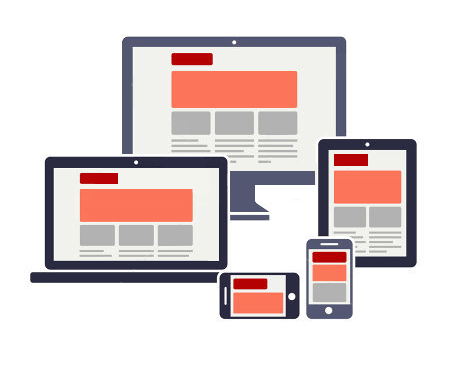
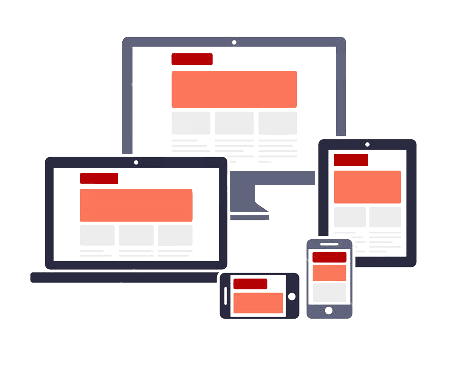
add parkin layout

diff --git a/src/main/resources/src/css/style.min.css b/src/main/resources/src/css/style.min.css
@@ -1,1 +1,1 @@
-@charset "UTF-8";@import url(https://fonts.googleapis.com/css?family=Poppins:100,100italic,200,200italic,300,300italic,regular,500,500italic,600,600italic,&display=swap);*{padding:0;margin:0;border:0}body{-webkit-box-sizing:border-box;box-sizing:border-box}html{height:100%}*,:after,:before{-webkit-box-sizing:border-box;box-sizing:border-box}:active,:focus{outline:0}a:active,a:focus{outline:0}aside,footer,header,nav{display:block}body,html{height:100%;width:100%;font-size:100%;line-height:1;font-size:14px;-ms-text-size-adjust:100%;-moz-text-size-adjust:100%;-webkit-text-size-adjust:100%}button,input,textarea{font-family:inherit}input::-ms-clear{display:none}button{cursor:pointer}button::-moz-focus-inner{padding:0;border:0}a,a:visited{text-decoration:none}a:hover{text-decoration:none}ul li{list-style:none}img{vertical-align:top}h1,h2,h3,h4,h5,h6{font-size:inherit;font-weight:inherit}._nav{margin-top:20px;display:-webkit-box;display:-ms-flexbox;display:flex;-webkit-box-align:center;-ms-flex-align:center;align-items:center;-webkit-box-pack:justify;-ms-flex-pack:justify;justify-content:space-between;position:relative}._nav__logo a>img{max-width:250px}._nav__link-menu{display:-webkit-box;display:-ms-flexbox;display:flex;-webkit-box-align:center;-ms-flex-align:center;align-items:center}._nav__link-menu>li:not(:first-child){margin-left:35px}._nav__link-item{color:#000;font-size:20px;display:-webkit-box;display:-ms-flexbox;display:flex;-webkit-box-align:center;-ms-flex-align:center;align-items:center;position:relative;-webkit-transition:all .7s;-o-transition:all .7s;transition:all .7s}._nav__link-item::after{-webkit-transition:all .2s;-o-transition:all .2s;transition:all .2s;content:"";display:inline;position:absolute;left:0;bottom:-10px;width:0%;height:3px;background-color:orange}._nav__link-item:hover{-webkit-transition:all .7s;-o-transition:all .7s;transition:all .7s;text-shadow:2px 1px 4px orange;-webkit-transform:scale(1.1);-ms-transform:scale(1.1);transform:scale(1.1);color:orange}._nav__link-item:hover::before{-webkit-transition:all 1.2s;-o-transition:all 1.2s;transition:all 1.2s;-webkit-transform:rotate(360deg);-ms-transform:rotate(360deg);transform:rotate(360deg)}._nav__link-item:hover::after{width:100%;opacity:.5}._nav__link-item.icon-setting{margin-right:15px}._nav__link-item.icon-setting::before{font-size:24px;color:#f39c7a;position:absolute;left:105%}.main__container{position:relative;padding-bottom:15px}.main__section{display:-webkit-box;display:-ms-flexbox;display:flex;-ms-flex-pack:distribute;justify-content:space-around;-webkit-box-align:center;-ms-flex-align:center;align-items:center}.main__text{font-size:18px;line-height:30px;margin:20px 10px 20px 15px;max-width:500px}.main__text p{text-indent:25px}.main__title{font-size:28px;font-weight:700}.main__photo{display:-webkit-box;display:-ms-flexbox;display:flex}.main__photo-box{min-width:250px;min-height:350px;border-radius:20px;overflow:hidden}.main__photo-screen{width:100%;height:100%}.social__item-link{font-size:24px;display:-webkit-box;display:-ms-flexbox;display:flex;-webkit-box-align:center;-ms-flex-align:center;align-items:center}.social__item-link>span::before{font-size:32px;margin-right:20px}.social__item-link>a::before{display:inline-block;-webkit-transition:-webkit-transform .3s;transition:-webkit-transform .3s;-o-transition:transform .3s;transition:transform .3s;transition:transform .3s,-webkit-transform .3s;font-size:32px;margin-right:20px}.social__item-link>a{color:#000;-webkit-transition:all .3s;-o-transition:all .3s;transition:all .3s;margin:10px 0}.social__item-link>a:hover{color:orange;-webkit-transform:scale(1.05);-ms-transform:scale(1.05);transform:scale(1.05)}.social__item-link>a:hover::before{-webkit-transform:rotate(40deg) scale(1.02);-ms-transform:rotate(40deg) scale(1.02);transform:rotate(40deg) scale(1.02)}.education__container{display:-webkit-box;display:-ms-flexbox;display:flex;-webkit-box-orient:vertical;-webkit-box-direction:normal;-ms-flex-direction:column;flex-direction:column;-webkit-box-align:center;-ms-flex-align:center;align-items:center;-webkit-box-pack:center;-ms-flex-pack:center;justify-content:center;padding-bottom:15px;position:relative}.education__info p{font-size:18px;line-height:25px}.education__info p:not(:last-child){margin-bottom:10px}.education__info p::before{content:"";display:inline-block;width:10px;height:10px;background-color:orange;border-radius:50%;margin-right:10px}.skill__container{position:relative;padding-bottom:15px}.skill__info{display:-webkit-box;display:-ms-flexbox;display:flex;-ms-flex-pack:distribute;justify-content:space-around;-webkit-box-align:center;-ms-flex-align:center;align-items:center}.info__item{min-width:300px}.info__item h2{font-size:20px;font-weight:700;margin:10px 0}.info__item p{font-size:18px;text-indent:25px;line-height:25px}.info__item p::before{content:"";display:inline-block;width:7px;height:7px;background-color:orange;margin-right:5px;border-radius:50%}.project__dashboard{display:-webkit-box;display:-ms-flexbox;display:flex;-ms-flex-wrap:wrap;flex-wrap:wrap;-webkit-box-align:center;-ms-flex-align:center;align-items:center;-webkit-box-pack:center;-ms-flex-pack:center;justify-content:center;padding-bottom:50px}.dashboard__card{-webkit-box-flex:0;-ms-flex:0 0 auto;flex:0 0 auto;min-width:300px;margin-bottom:20px;position:relative;-webkit-transition:.3s;-o-transition:.3s;transition:.3s}.dashboard__card a{color:#000}.dashboard__card:hover{-webkit-transform:scale(1.05);-ms-transform:scale(1.05);transform:scale(1.05)}.dashboard__card-small{width:100px;height:100px;background-size:contain;border-radius:50%;-webkit-box-shadow:-1px -1px 3px;box-shadow:-1px -1px 3px}.dashboard__card-body{position:absolute;left:50px;top:50px;padding:15px 20px;background-color:#fff;-webkit-box-shadow:1px 1px 5px;box-shadow:1px 1px 5px;border-radius:5px}.footer{position:relative}.footer__container{display:-webkit-box;display:-ms-flexbox;display:flex;-webkit-box-pack:center;-ms-flex-pack:center;justify-content:center;-webkit-box-orient:vertical;-webkit-box-direction:normal;-ms-flex-direction:column;flex-direction:column;-webkit-box-align:center;-ms-flex-align:center;align-items:center;padding:25px 0}.footer__link{padding:15px;position:relative}.footer__link>a:not(:last-child){margin-right:30px}.footer__item{font-size:30px;font-weight:100;color:#262a2e}.footer__item:hover::before{display:inline-block;color:#000;-webkit-transition:all .3s;-o-transition:all .3s;transition:all .3s;-webkit-transform:rotate(20deg) scale(1.1);-ms-transform:rotate(20deg) scale(1.1);transform:rotate(20deg) scale(1.1)}.footer__copyright{opacity:.5}.main__container{display:-webkit-box;display:-ms-flexbox;display:flex;-webkit-box-pack:center;-ms-flex-pack:center;justify-content:center;-ms-flex-wrap:wrap;flex-wrap:wrap}.layout__card{-webkit-box-flex:1;-ms-flex:1 1 33.33%;flex:1 1 33.33%;min-height:100px;display:-webkit-box;display:-ms-flexbox;display:flex;-webkit-box-orient:horizontal;-webkit-box-direction:normal;-ms-flex-direction:row;flex-direction:row;-webkit-box-pack:center;-ms-flex-pack:center;justify-content:center;max-width:200px;width:200px;margin-right:25px}.layout__box{-webkit-box-flex:1;-ms-flex:1 1 100%;flex:1 1 100%;display:-webkit-box;display:-ms-flexbox;display:flex;-webkit-box-orient:vertical;-webkit-box-direction:normal;-ms-flex-direction:column;flex-direction:column;-webkit-box-pack:center;-ms-flex-pack:center;justify-content:center;padding:15px}.layout__box-screen{min-width:200px;min-height:100px;border-radius:5px;overflow:hidden}.layout__box-title{margin-top:25px}.layout__box-subtitle{margin-top:25px;-webkit-box-flex:1;-ms-flex:1 1 auto;flex:1 1 auto}.layout__box-button{display:-webkit-box;display:-ms-flexbox;display:flex;-webkit-box-pack:justify;-ms-flex-pack:justify;justify-content:space-between}.layout__box-button a{color:#000;margin-top:15px;border:1px solid #000;padding:10px 20px;border-radius:10px;-webkit-transition:all .3s;-o-transition:all .3s;transition:all .3s}.layout__box-button a:hover{background-color:orange;border:1px solid #fff;color:#fff}html{overflow:hidden auto}body{font-family:Poppins,sans-serif;font-size:14px;color:#000;position:relative;height:100%;-webkit-box-orient:vertical;-webkit-box-direction:normal;-ms-flex-direction:column;flex-direction:column}.main__body{height:auto;min-height:65%}[class*=__container]{padding:15px 15px 30px 15px;max-width:1200px;margin:0 auto}.ibg{background-position:center;background-size:cover;background-repeat:no-repeat;position:relative}.ibg img{width:0;height:0;position:absolute;top:0;left:0;display:none}._line::before{content:"";position:absolute;width:100%;height:3px;left:0;right:0;bottom:0;background:-webkit-gradient(linear,left top,right top,from(#ededed),color-stop(50%,#000),to(#ededed));background:-o-linear-gradient(left,#ededed 0,#000 50%,#ededed 100%);background:linear-gradient(90deg,#ededed 0,#000 50%,#ededed 100%)}.h2-title{text-align:center;margin:0 0 30px 0;font-size:32px;font-weight:700;color:#ff5e00}@media (max-width:805px){.main__text{max-width:350px}.social__item-link>a::before{margin-right:10px}}@media (max-width:650px){._nav{-webkit-box-orient:vertical;-webkit-box-direction:normal;-ms-flex-direction:column;flex-direction:column;padding-bottom:25px}._nav__link-item{font-size:16px}.main__section{-webkit-box-orient:vertical;-webkit-box-direction:normal;-ms-flex-direction:column;flex-direction:column}.social__item-link{font-size:16px}.education__info p{font-size:16px}.info__item p{text-indent:0;font-size:16px}}@media (max-width:600px){.layout__card{-webkit-box-flex:1;-ms-flex:1 1 100%;flex:1 1 100%}}@media (max-width:585px){._nav__logo a>img{max-width:150px}}@media (max-width:520px){.skill__info{-webkit-box-orient:vertical;-webkit-box-direction:normal;-ms-flex-direction:column;flex-direction:column;-webkit-box-pack:baseline;-ms-flex-pack:baseline;justify-content:baseline;-webkit-box-align:center;-ms-flex-align:center;align-items:center}}@media (max-width:400px){.dashboard__card{min-width:200px}}@media (any-hover:hover){.dashboard__card:hover{-webkit-transform:scale(1.05);-ms-transform:scale(1.05);transform:scale(1.05)}}
+@charset "UTF-8";@import url(https://fonts.googleapis.com/css?family=Poppins:100,100italic,200,200italic,300,300italic,regular,500,500italic,600,600italic,&display=swap);*{padding:0;margin:0;border:0}body{-webkit-box-sizing:border-box;box-sizing:border-box}html{height:100%}*,:after,:before{-webkit-box-sizing:border-box;box-sizing:border-box}:active,:focus{outline:0}a:active,a:focus{outline:0}aside,footer,header,nav{display:block}body,html{height:100%;width:100%;font-size:100%;line-height:1;font-size:14px;-ms-text-size-adjust:100%;-moz-text-size-adjust:100%;-webkit-text-size-adjust:100%}button,input,textarea{font-family:inherit}input::-ms-clear{display:none}button{cursor:pointer}button::-moz-focus-inner{padding:0;border:0}a,a:visited{text-decoration:none}a:hover{text-decoration:none}ul li{list-style:none}img{vertical-align:top}h1,h2,h3,h4,h5,h6{font-size:inherit;font-weight:inherit}._nav{margin-top:20px;display:-webkit-box;display:-ms-flexbox;display:flex;-webkit-box-align:center;-ms-flex-align:center;align-items:center;-webkit-box-pack:justify;-ms-flex-pack:justify;justify-content:space-between;position:relative}._nav__logo a>img{max-width:250px}._nav__link-menu{display:-webkit-box;display:-ms-flexbox;display:flex;-webkit-box-align:center;-ms-flex-align:center;align-items:center}._nav__link-menu>li:not(:first-child){margin-left:35px}._nav__link-item{color:#000;font-size:20px;display:-webkit-box;display:-ms-flexbox;display:flex;-webkit-box-align:center;-ms-flex-align:center;align-items:center;position:relative;-webkit-transition:all .7s;-o-transition:all .7s;transition:all .7s}._nav__link-item::after{-webkit-transition:all .2s;-o-transition:all .2s;transition:all .2s;content:"";display:inline;position:absolute;left:0;bottom:-10px;width:0%;height:3px;background-color:orange}._nav__link-item:hover{-webkit-transition:all .7s;-o-transition:all .7s;transition:all .7s;text-shadow:2px 1px 4px orange;-webkit-transform:scale(1.1);-ms-transform:scale(1.1);transform:scale(1.1);color:orange}._nav__link-item:hover::before{-webkit-transition:all 1.2s;-o-transition:all 1.2s;transition:all 1.2s;-webkit-transform:rotate(360deg);-ms-transform:rotate(360deg);transform:rotate(360deg)}._nav__link-item:hover::after{width:100%;opacity:.5}._nav__link-item.icon-setting{margin-right:15px}._nav__link-item.icon-setting::before{font-size:24px;color:#f39c7a;position:absolute;left:105%}.main__container{position:relative;padding-bottom:15px}.main__section{display:-webkit-box;display:-ms-flexbox;display:flex;-ms-flex-pack:distribute;justify-content:space-around;-webkit-box-align:center;-ms-flex-align:center;align-items:center}.main__text{font-size:18px;line-height:30px;margin:20px 10px 20px 15px;max-width:500px}.main__text p{text-indent:25px}.main__title{font-size:28px;font-weight:700}.main__photo{display:-webkit-box;display:-ms-flexbox;display:flex;background-size:contain}.main__photo-box{width:400px;height:500px;background:0 0;overflow:hidden}.main__photo-screen{width:100%;height:100%}.social__item-link{font-size:24px;display:-webkit-box;display:-ms-flexbox;display:flex;-webkit-box-align:center;-ms-flex-align:center;align-items:center}.social__item-link>span::before{font-size:32px;margin-right:20px}.social__item-link>a::before{display:inline-block;-webkit-transition:-webkit-transform .3s;transition:-webkit-transform .3s;-o-transition:transform .3s;transition:transform .3s;transition:transform .3s,-webkit-transform .3s;font-size:32px;margin-right:20px}.social__item-link>a{color:#000;-webkit-transition:all .3s;-o-transition:all .3s;transition:all .3s;margin:10px 0}.social__item-link>a:hover{color:orange;-webkit-transform:scale(1.05);-ms-transform:scale(1.05);transform:scale(1.05)}.social__item-link>a:hover::before{-webkit-transform:rotate(40deg) scale(1.02);-ms-transform:rotate(40deg) scale(1.02);transform:rotate(40deg) scale(1.02)}.education__container{display:-webkit-box;display:-ms-flexbox;display:flex;-webkit-box-orient:vertical;-webkit-box-direction:normal;-ms-flex-direction:column;flex-direction:column;-webkit-box-align:center;-ms-flex-align:center;align-items:center;-webkit-box-pack:center;-ms-flex-pack:center;justify-content:center;padding-bottom:15px;position:relative}.education__info p{display:-webkit-box;display:-ms-flexbox;display:flex;-webkit-box-align:center;-ms-flex-align:center;align-items:center;font-size:18px;line-height:25px}.education__info p:not(:last-child){margin-bottom:10px}.education__info p::before{content:"";display:inline-block;width:10px;height:10px;background-color:orange;border-radius:50%;margin-right:10px}.skill__container{position:relative;padding-bottom:15px}.skill__info{display:-webkit-box;display:-ms-flexbox;display:flex;-ms-flex-pack:distribute;justify-content:space-around;-webkit-box-align:center;-ms-flex-align:center;align-items:center}.info__item{min-width:300px}.info__item h2{font-size:20px;font-weight:700;margin:10px 0}.info__item p{font-size:18px;text-indent:25px;line-height:25px}.info__item p::before{content:"";display:inline-block;width:7px;height:7px;background-color:orange;margin-right:5px;border-radius:50%}.project__dashboard{display:-webkit-box;display:-ms-flexbox;display:flex;-ms-flex-wrap:wrap;flex-wrap:wrap;-webkit-box-align:center;-ms-flex-align:center;align-items:center;-webkit-box-pack:center;-ms-flex-pack:center;justify-content:center;padding-bottom:50px}.dashboard__card{-webkit-box-flex:0;-ms-flex:0 0 auto;flex:0 0 auto;min-width:300px;margin-bottom:20px;position:relative;-webkit-transition:.3s;-o-transition:.3s;transition:.3s}.dashboard__card a{color:#000}.dashboard__card:hover{-webkit-transform:scale(1.05);-ms-transform:scale(1.05);transform:scale(1.05)}.dashboard__card-small{width:100px;height:100px;background-size:contain;border-radius:50%;-webkit-box-shadow:-1px -1px 3px;box-shadow:-1px -1px 3px}.dashboard__card-body{position:absolute;left:50px;top:50px;padding:15px 20px;background-color:#fff;-webkit-box-shadow:1px 1px 5px;box-shadow:1px 1px 5px;border-radius:5px;background:bisque}.footer{position:relative}.footer__container{display:-webkit-box;display:-ms-flexbox;display:flex;-webkit-box-pack:center;-ms-flex-pack:center;justify-content:center;-webkit-box-orient:vertical;-webkit-box-direction:normal;-ms-flex-direction:column;flex-direction:column;-webkit-box-align:center;-ms-flex-align:center;align-items:center;padding:25px 0}.footer__link{padding:15px;position:relative}.footer__link>a:not(:last-child){margin-right:30px}.footer__item{font-size:30px;font-weight:100;color:#262a2e}.footer__item:hover::before{display:inline-block;color:#000;-webkit-transition:all .3s;-o-transition:all .3s;transition:all .3s;-webkit-transform:rotate(20deg) scale(1.1);-ms-transform:rotate(20deg) scale(1.1);transform:rotate(20deg) scale(1.1)}.footer__copyright{opacity:.5}.main__container{display:-webkit-box;display:-ms-flexbox;display:flex;-webkit-box-pack:center;-ms-flex-pack:center;justify-content:center;-ms-flex-wrap:wrap;flex-wrap:wrap}.layout__card{-webkit-box-flex:1;-ms-flex:1 1 33.33%;flex:1 1 33.33%;min-height:100px;display:-webkit-box;display:-ms-flexbox;display:flex;-webkit-box-orient:horizontal;-webkit-box-direction:normal;-ms-flex-direction:row;flex-direction:row;-webkit-box-pack:center;-ms-flex-pack:center;justify-content:center;max-width:200px;width:200px;margin-right:25px}.layout__box{-webkit-box-flex:1;-ms-flex:1 1 100%;flex:1 1 100%;display:-webkit-box;display:-ms-flexbox;display:flex;-webkit-box-orient:vertical;-webkit-box-direction:normal;-ms-flex-direction:column;flex-direction:column;-webkit-box-pack:center;-ms-flex-pack:center;justify-content:center;padding:15px}.layout__box-screen{min-width:200px;min-height:100px;border-radius:5px;overflow:hidden}.layout__box-title{margin-top:25px}.layout__box-subtitle{margin-top:25px;-webkit-box-flex:1;-ms-flex:1 1 auto;flex:1 1 auto}.layout__box-button{display:-webkit-box;display:-ms-flexbox;display:flex;-webkit-box-pack:justify;-ms-flex-pack:justify;justify-content:space-between}.layout__box-button a{color:#000;margin-top:15px;border:1px solid #000;padding:10px 20px;border-radius:10px;-webkit-transition:all .3s;-o-transition:all .3s;transition:all .3s}.layout__box-button a:hover{background-color:orange;border:1px solid #fff;color:#fff}html{overflow:hidden auto}body{font-family:Poppins,sans-serif;font-size:14px;color:#000;position:relative;height:100%;-webkit-box-orient:vertical;-webkit-box-direction:normal;-ms-flex-direction:column;flex-direction:column}.main__body{height:auto;min-height:65%}[class*=__container]{padding:15px 15px 30px 15px;max-width:1200px;margin:0 auto;background-color:bisque}.ibg{background-position:center;background-size:cover;background-repeat:no-repeat;position:relative}.ibg img{width:0;height:0;position:absolute;top:0;left:0;display:none}._line::before{content:"";position:absolute;width:100%;height:3px;left:0;right:0;bottom:0;background:-webkit-gradient(linear,left top,right top,from(#ededed),color-stop(50%,#000),to(#ededed));background:-o-linear-gradient(left,#ededed 0,#000 50%,#ededed 100%);background:linear-gradient(90deg,#ededed 0,#000 50%,#ededed 100%)}.h2-title{text-align:center;margin:0 0 30px 0;font-size:32px;font-weight:700;color:#ff5e00}@media (max-width:805px){.main__text{max-width:350px}.social__item-link>a::before{margin-right:10px}}@media (max-width:650px){._nav{-webkit-box-orient:vertical;-webkit-box-direction:normal;-ms-flex-direction:column;flex-direction:column;padding-bottom:25px}._nav__link-item{font-size:16px}.main__section{-webkit-box-orient:vertical;-webkit-box-direction:normal;-ms-flex-direction:column;flex-direction:column}.social__item-link{font-size:16px}.education__info p{font-size:16px}.info__item p{text-indent:0;font-size:16px}}@media (max-width:600px){.layout__card{-webkit-box-flex:1;-ms-flex:1 1 100%;flex:1 1 100%}}@media (max-width:585px){._nav__logo a>img{max-width:150px}}@media (max-width:520px){.skill__info{-webkit-box-orient:vertical;-webkit-box-direction:normal;-ms-flex-direction:column;flex-direction:column;-webkit-box-pack:baseline;-ms-flex-pack:baseline;justify-content:baseline;-webkit-box-align:center;-ms-flex-align:center;align-items:center}}@media (max-width:400px){.dashboard__card{min-width:200px}}@media (any-hover:hover){.dashboard__card:hover{-webkit-transform:scale(1.05);-ms-transform:scale(1.05);transform:scale(1.05)}}

diff --git a/src/main/resources/src/java.html b/src/main/resources/src/java.html
@@ -64,53 +64,8 @@
         </div>
 
 
-         <div class="layout__card">
-            <div class="layout__box">
-                <div class="layout__box-screen">
-                    <img src="../img/layout/jooj.png" alt="">
-                </div>
-                <div class="layout__box-title">1</div>
-                <div class="layout__box-subtitle">Lorem nus vero? Esse aut pers ibero, mollitia ne e aut perspiciatis
-                    itaque.</div>
-                <div class="layout__box-button">
-                    <a href=""  target="_blank">Demo</a>
-                    <a href=""  target="_blank">Code</a>
-                </div>
 
-            </div>
-        </div>
-        <div class="layout__card">
-            <div class="layout__box">
-                <div class="layout__box-screen">
-                    <img src="../img/layout/jooj.png" alt="">
-                </div>
-                <div class="layout__box-title">1</div>
-                <div class="layout__box-subtitle">Lorem nus vero? Esse aut pers ibero, mollitia ne e aut perspiciatis
-                    itaque.</div>
-                <div class="layout__box-button">
-                    <a href=""  target="_blank">Demo</a>
-                    <a href=""  target="_blank">Code</a>
-                </div>
-
-            </div>
-        </div>
-        <div class="layout__card">
-            <div class="layout__box">
-                <div class="layout__box-screen">
-                    <img src="../img/layout/jooj.png" alt="">
-                </div>
-                <div class="layout__box-title">1</div>
-                <div class="layout__box-subtitle">Lorem nus vero? Esse aut pers ibero, mollitia ne e aut perspiciatis
-                    itaque.</div>
-                <div class="layout__box-button">
-                    <a href=""  target="_blank">Demo</a>
-                    <a href=""  target="_blank">Code</a>
-                </div>
-
-            </div>
-        </div>
-
-    </div>
+      </div>
 </div>
 
         <footer class="footer">

diff --git a/src/main/resources/src/css/style.css b/src/main/resources/src/css/style.css
@@ -235,12 +235,13 @@ h6 {
   display: -webkit-box;
   display: -ms-flexbox;
   display: flex;
+  background-size: contain;
 }
 
 .main__photo-box {
-  min-width: 250px;
-  min-height: 350px;
-  border-radius: 20px;
+  width: 400px;
+  height: 500px;
+  background: transparent;
   overflow: hidden;
 }
 
@@ -315,6 +316,12 @@ h6 {
 }
 
 .education__info p {
+  display: -webkit-box;
+  display: -ms-flexbox;
+  display: flex;
+  -webkit-box-align: center;
+  -ms-flex-align: center;
+  align-items: center;
   font-size: 18px;
   line-height: 25px;
 }
@@ -430,6 +437,7 @@ h6 {
   -webkit-box-shadow: 1px 1px 5px;
   box-shadow: 1px 1px 5px;
   border-radius: 5px;
+  background: bisque;
 }
 
 .footer {
@@ -600,6 +608,7 @@ body {
   padding: 15px 15px 30px 15px;
   max-width: 1200px;
   margin: 0 auto;
+  background-color: bisque;
 }
 
 .ibg {

diff --git a/src/main/resources/src/index.html b/src/main/resources/src/index.html
@@ -59,7 +59,7 @@
             <div class="main__photo">
                 <div class="main__photo-box">
                 <div class="main__photo-screen ibg">
-                    <img src="../img/logo_photo.jpg" alt="logo_photo">
+                    <img src="../img/logo.png" alt="logo_photo">
                 </div>
             </div>
             </div>
@@ -172,7 +172,8 @@
 
    </div>
 
-        <footer class="footer">
+
+          <footer class="footer">
 
     <div class="footer__container">
         <div class="footer__link">
@@ -188,8 +189,7 @@
 
     </div>
 </footer>
-
-      <script src="js/script.js"  ></script>
+    <script src="js/script.js"  ></script>
 </body>
 
  </html>
